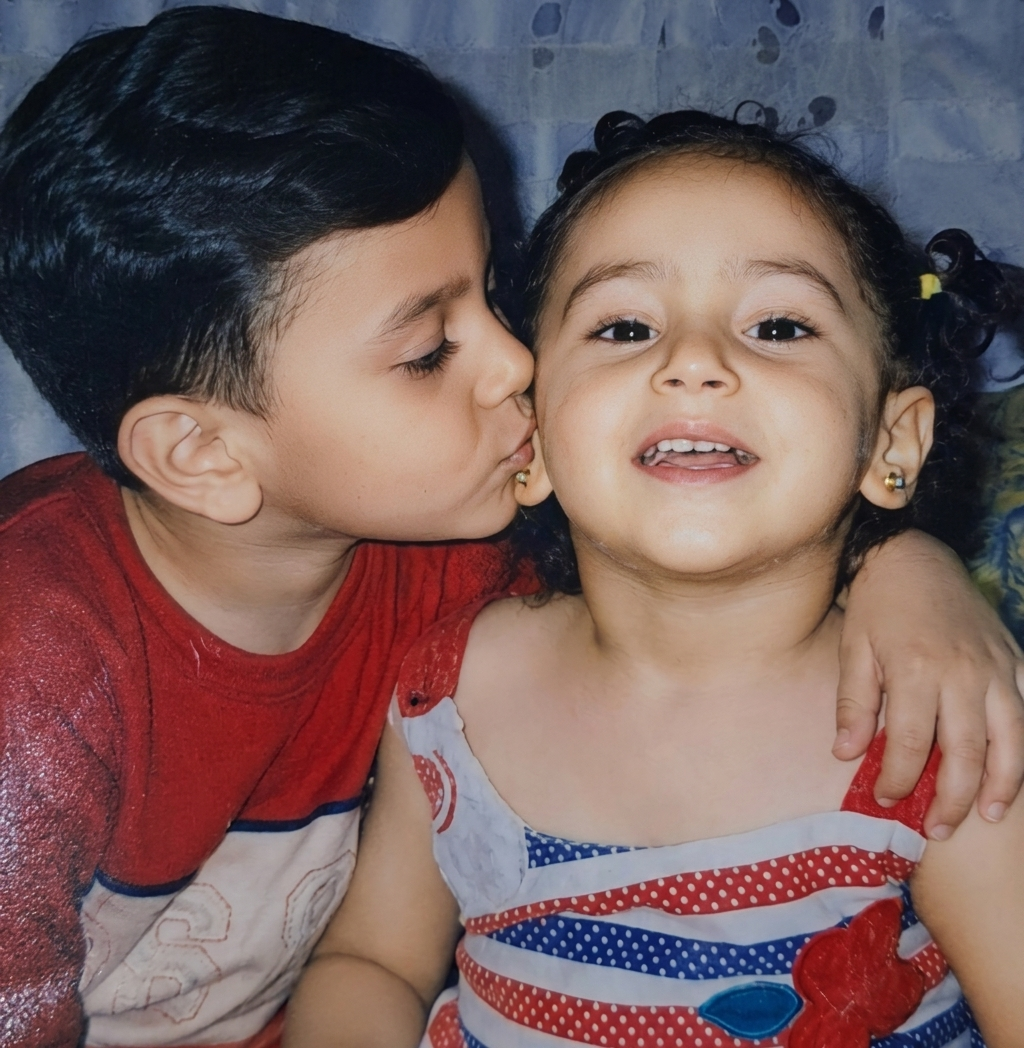
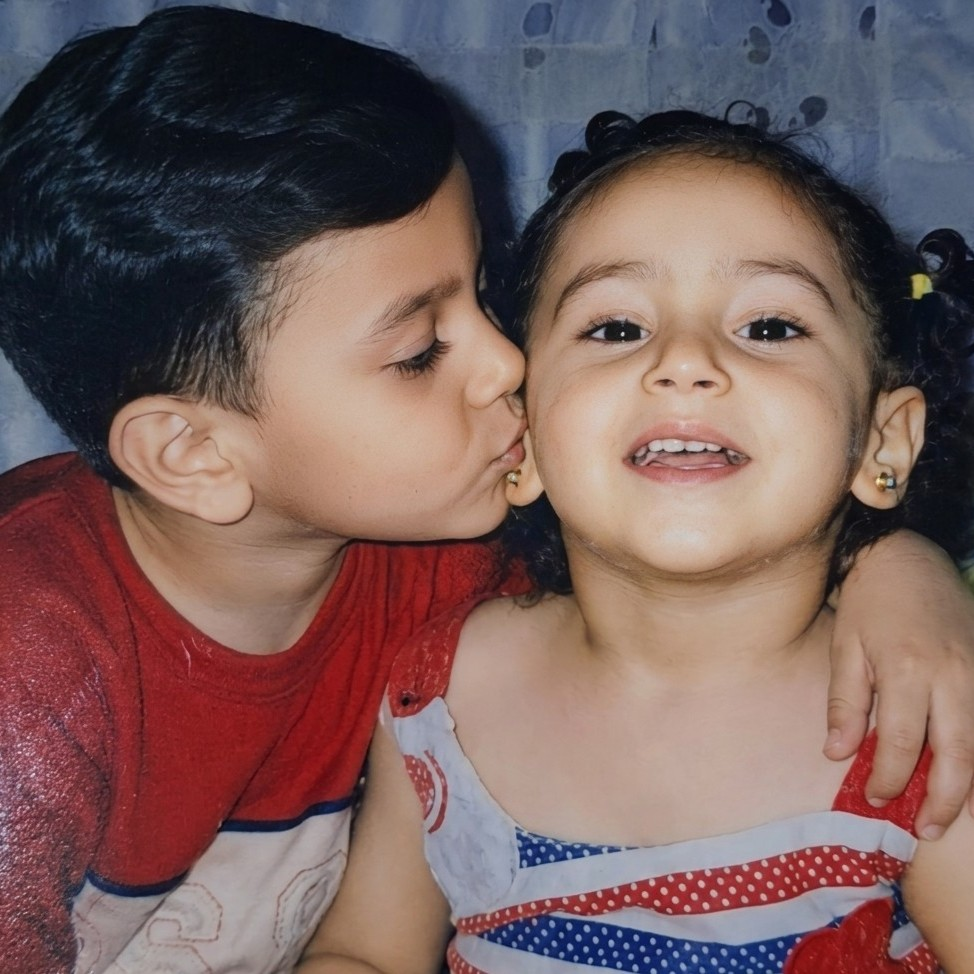
Adding countdown background

diff --git a/invitation.html b/invitation.html
@@ -73,11 +73,11 @@
             THE BIG DAY
         </p>
 
-        <h2>
+        <h2 style="text-shadow: 2px 2px 5px white;">
             Counting Down To Forever
         </h2>
 
-        <div class="countdown">
+        <div class="countdown" style="text-shadow: 2px 2px 5px white;">
 
             <div class="countdown-item">
                 <span id="days">00</span>

diff --git a/invitation.css b/invitation.css
@@ -325,7 +325,7 @@ COUNTDOWN
 
 .countdown-section {
 min-height: 70vh;
-
+height: auto;
 display: flex;
 flex-direction: column;
 
@@ -334,8 +334,9 @@ justify-content: center;
 
 text-align: center;
 
-background: #f7f0e5;
-
+background-image: url(Photos/photo1.jpg);
+background-size: 100% auto;
+aspect-ratio: 1 / 1;
 }
 
 .countdown-section h2 {
